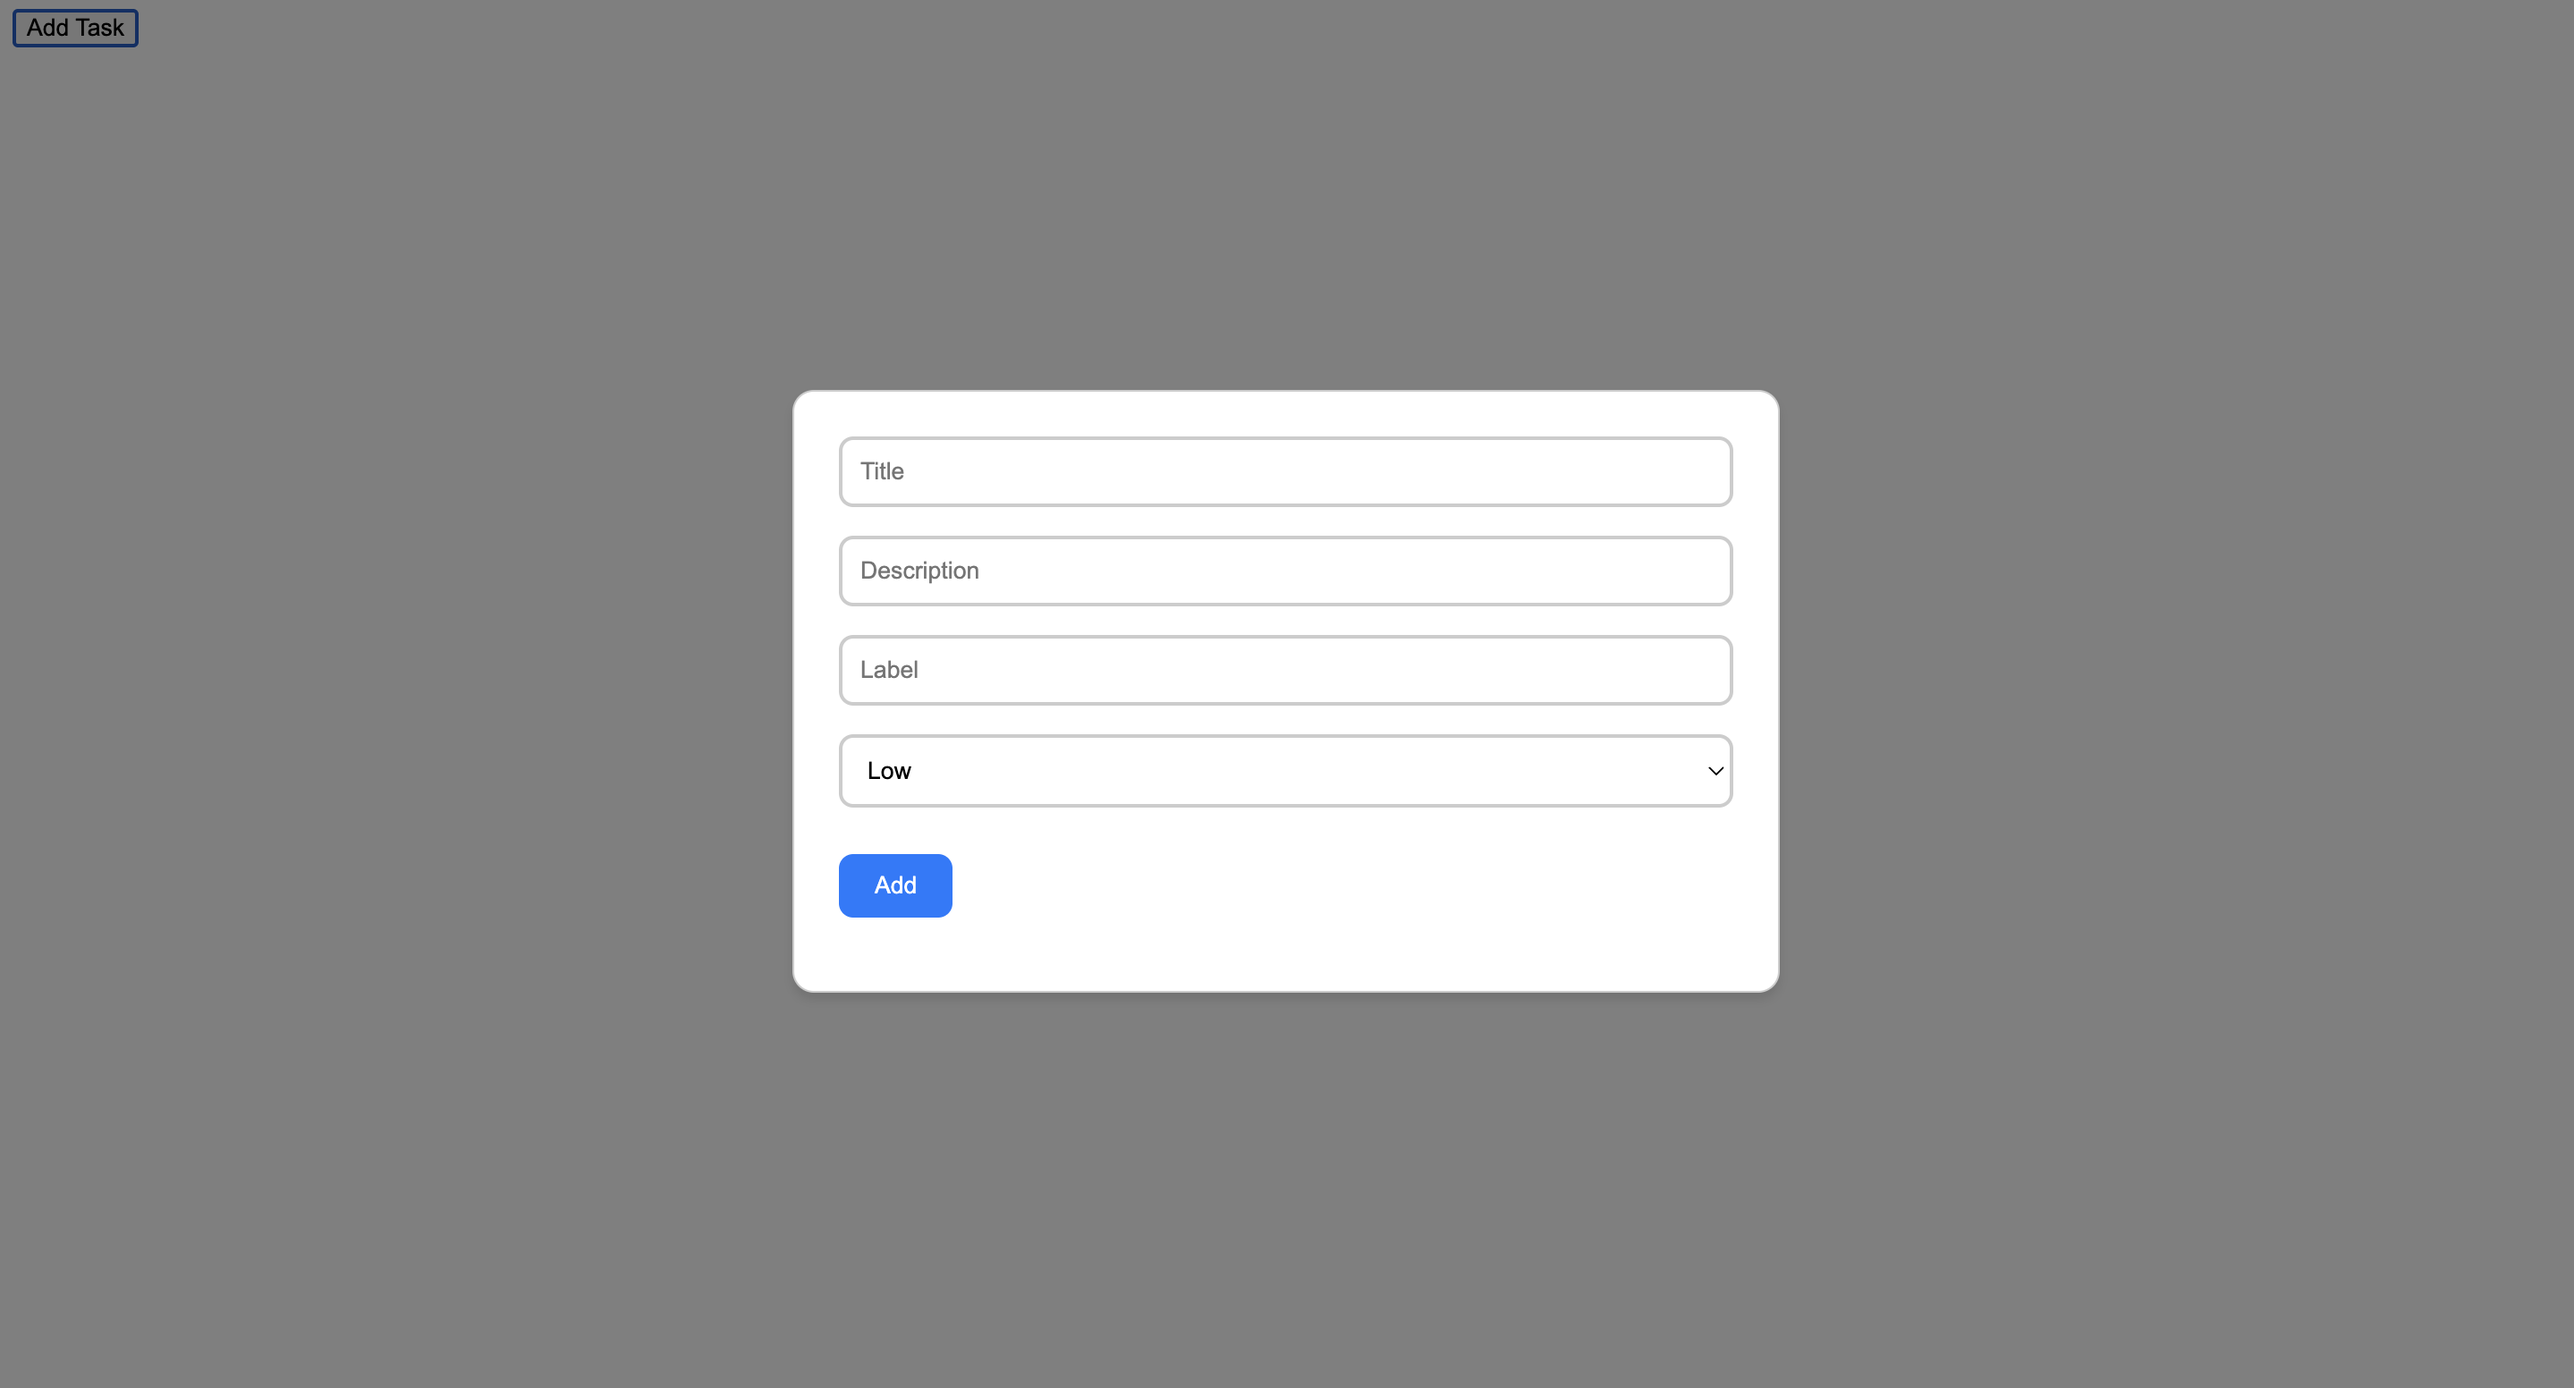
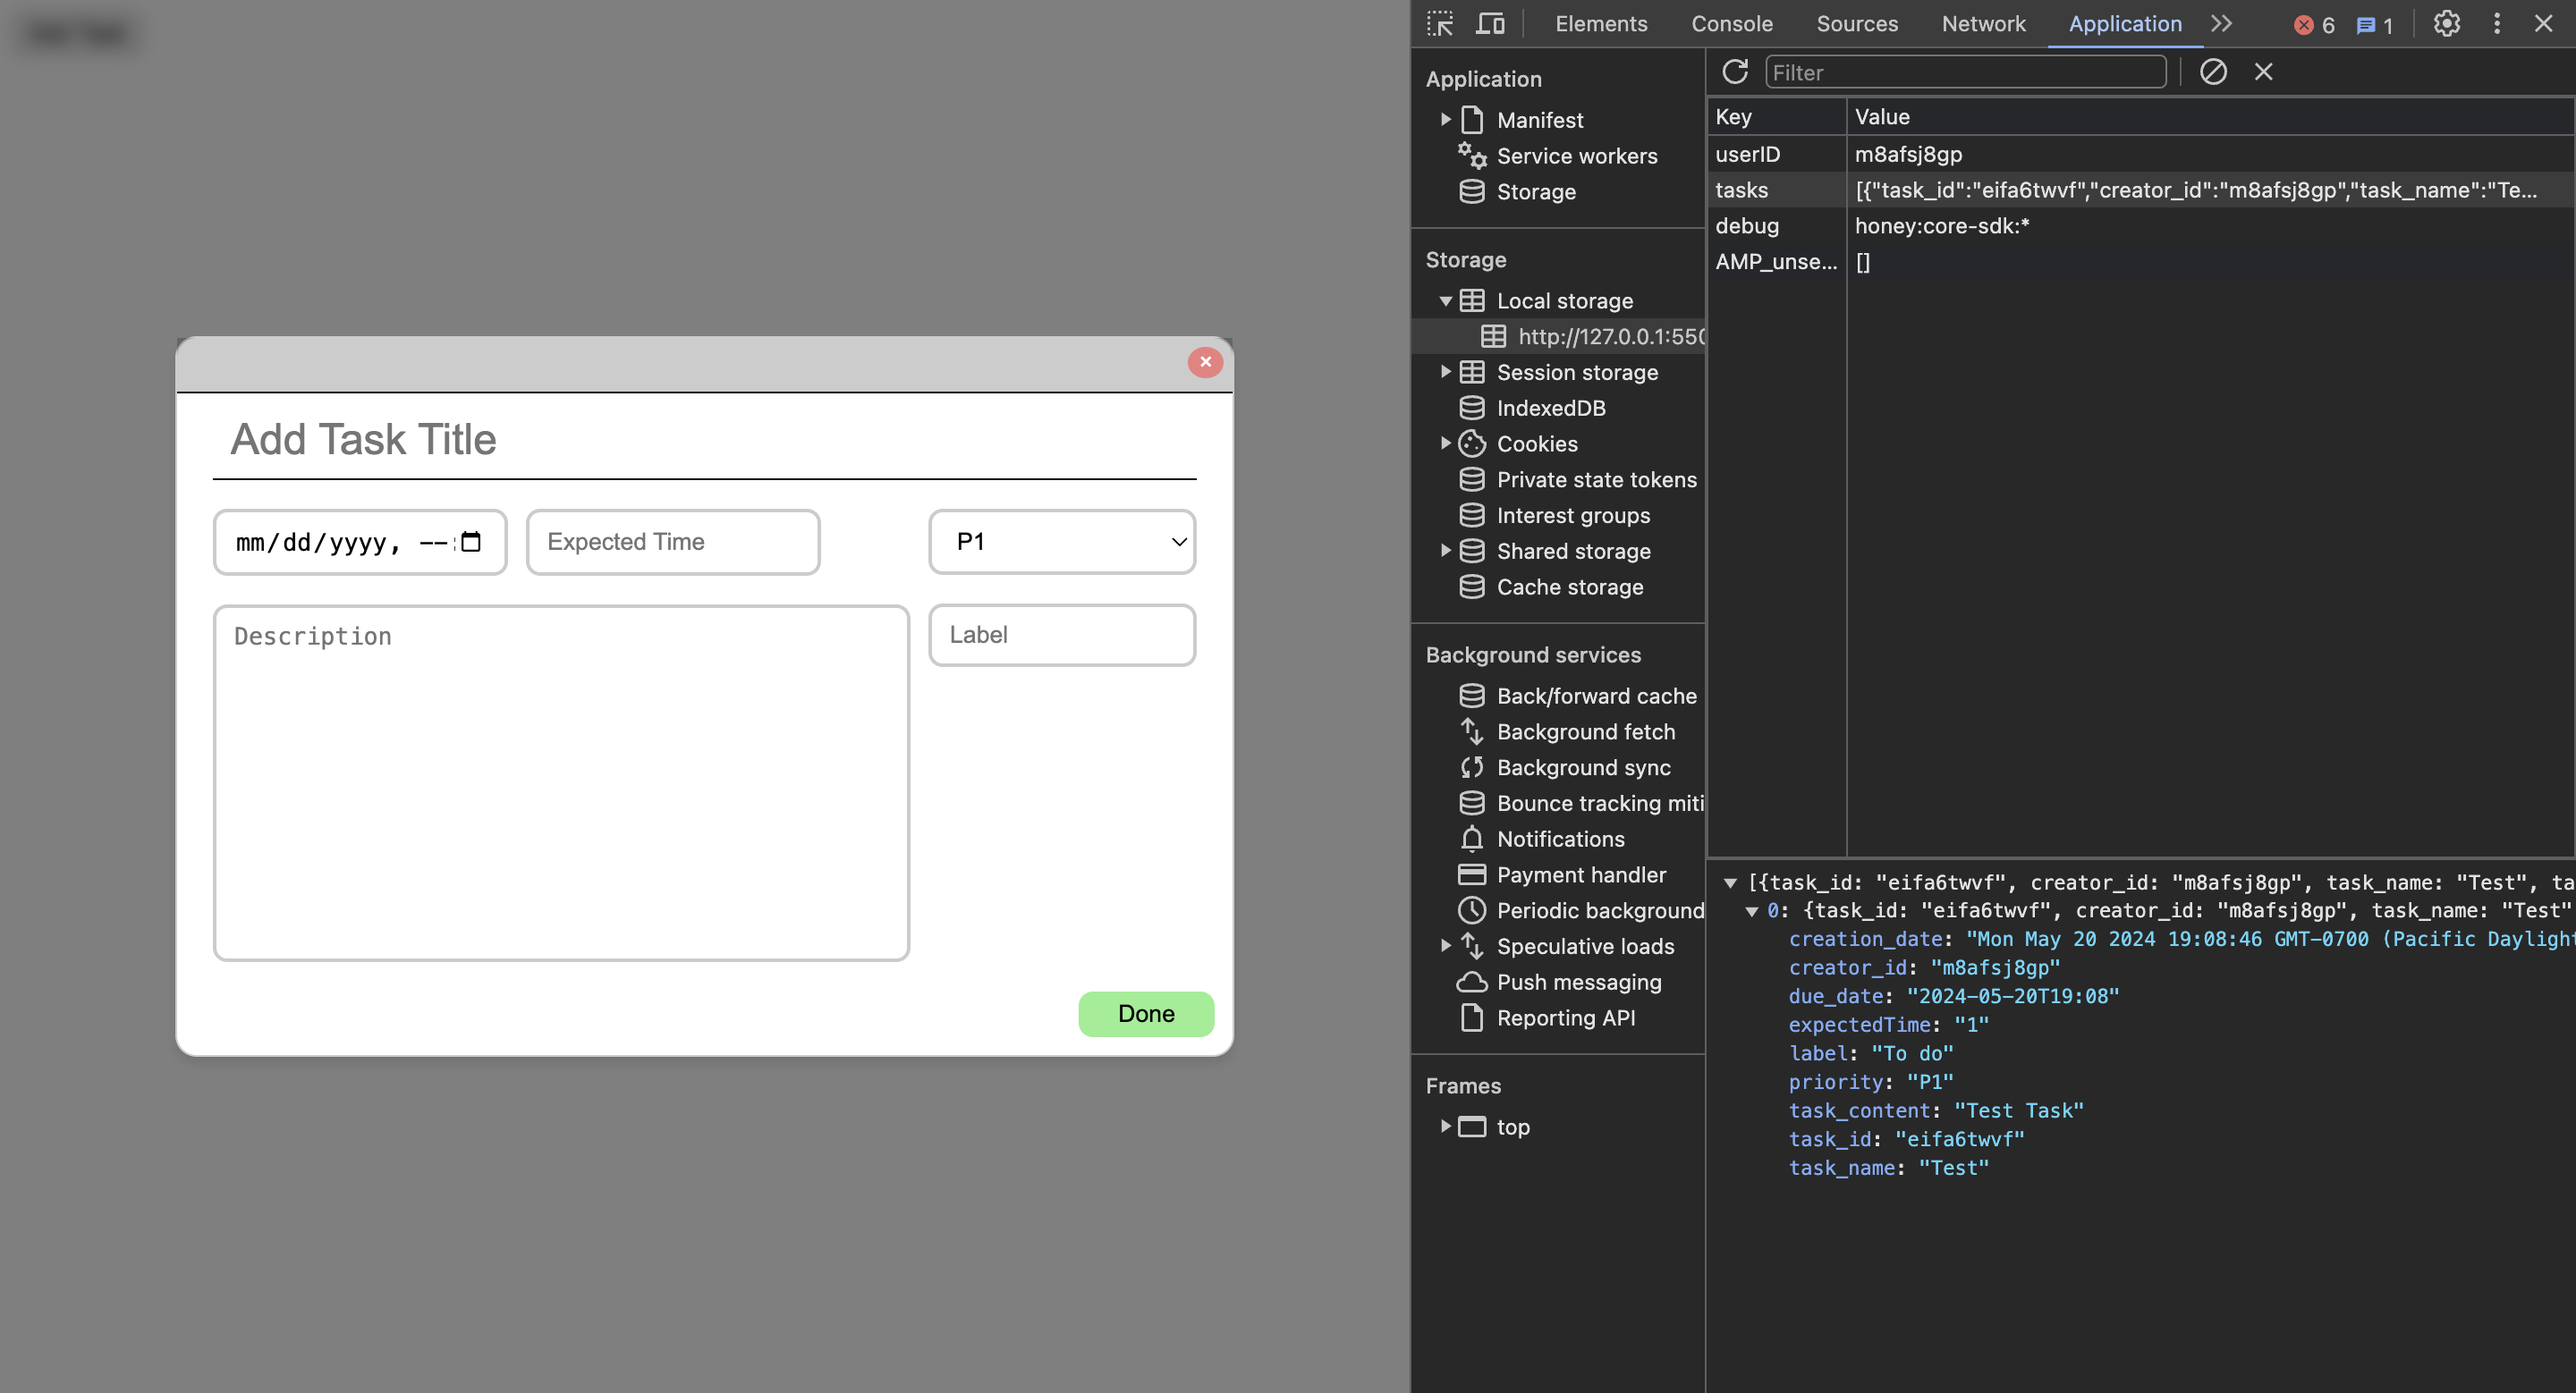
update styling to match w/journal popup

diff --git a/source/project/components/popup-component/popup-component.html b/source/project/components/popup-component/popup-component.html
@@ -6,7 +6,7 @@
     class="close-popup"
     aria-label="Close Popup"
   >
-    ×
+    x
   </button>
 </nav>
 <!-- Task Form -->
@@ -39,7 +39,21 @@
           type="text"
           id="expectedTime"
           class="form-control"
-          placeholder="Expected Time"
+          placeholder="Expected Time (hours)"
+        />
+        <!-- Priority Dropdown -->
+        <select id="priority" class="form-control" required aria-required="true">
+          <option value="P1">P1</option>
+          <option value="P2">P2</option>
+          <option value="P3">P3</option>
+          <option value="P4">P4</option>
+        </select>
+        <!-- Label Selection -->
+        <input
+            type="text"
+            id="label"
+            class="form-control"
+            placeholder="Label"
         />
       </div>
       <!-- Description Section -->
@@ -48,25 +62,6 @@
         class="form-control"
         placeholder="Description"
       ></textarea>
-    </div>
-    <div class="right-column">
-      <!-- Priority Dropdown -->
-      <select id="priority" class="form-control" required aria-required="true">
-        <option value="P0">P0</option>
-        <option value="P1">P1</option>
-        <option value="P2">P2</option>
-        <option value="P3">P3</option>
-        <option value="P4">P4</option>
-      </select>
-      <!-- Label Selection -->
-      <div class="label-container">
-        <input
-          type="text"
-          id="label"
-          class="form-control"
-          placeholder="Label"
-        />
-      </div>
       <!-- Submit Button -->
       <button type="submit" id="addBtn" class="submit-btn">Done</button>
     </div>

diff --git a/source/project/components/popup-component/popup-component.css b/source/project/components/popup-component/popup-component.css
@@ -19,7 +19,7 @@
   border: 1px solid #ccc;
   border-radius: 12px;
   box-shadow: 0 4px 6px rgba(0, 0, 0, 0.1);
-  width: 720px;
+  width: 550px;
   z-index: 10000;
   display: flex;
   flex-direction: column;
@@ -44,27 +44,12 @@
 
 .left-column {
   flex: 1;
-  padding-right: 10px;
-  padding-bottom: 0px;
-}
-
-.right-column {
-  flex: 0 0 150px;
-  display: flex;
-  flex-direction: column;
-  justify-content: flex-start;
 }
 
 .date-time-section {
   display: flex;
   justify-content: space-between;
-  gap: 10px;
-  padding-right: 50px;
-}
-
-#dueDate,
-#expectedTime {
-  border-radius: 8px;
+  gap: 5px;
 }
 
 .form-control {
@@ -91,6 +76,8 @@ textarea.form-control {
   border: none;
   border-bottom: black 1px solid;
   font-size: 24px;
+  padding-bottom: 0px;
+  padding-left: 0px;
 }
 
 #addBtn {
@@ -103,7 +90,7 @@ textarea.form-control {
   transition: background-color 0.3s;
   position: absolute;
   bottom: 10px;
-  right: 10px;
+  right: 20px;
 }
 
 #addBtn:hover {
@@ -122,7 +109,6 @@ nav {
   height: 30px;
   left: 0;
   margin-bottom: 20px;
-  border-bottom: 1px solid black;
 }
 
 #closeBtn {
@@ -136,10 +122,25 @@ nav {
   color: white;
 }
 
+#dueDate {
+  border-radius: 8px;
+  width: 200px;
+}
+#expectedTime {
+  border-radius: 8px;
+  width: 160px;
+}
 #priority {
   border-radius: 8px;
+  width: 70px;
 }
 
 #label {
   border-radius: 8px;
+  width: 100px;
 }
+
+/* .dropdown-menu {
+  max-height: 150px;
+  overflow-y: scroll;
+} */

diff --git a/source/project/docs/popup-component.md b/source/project/docs/popup-component.md
@@ -19,7 +19,7 @@ The popup can be implementing with the following code:
 ```
 ## Requirements
 
-The popup should allow the user to input details for a task. The background should blur to make the popup the center or attention. Furthermore, the popup should be intuitive and easy to use.
+The popup should allow the user to input details for a task. The background should blur to make the popup the center or attention. Furthermore, the popup should be intuitive and easy to use. Data should be stored locally to be easily accessed by the backend.
 
 ## Testing
 
